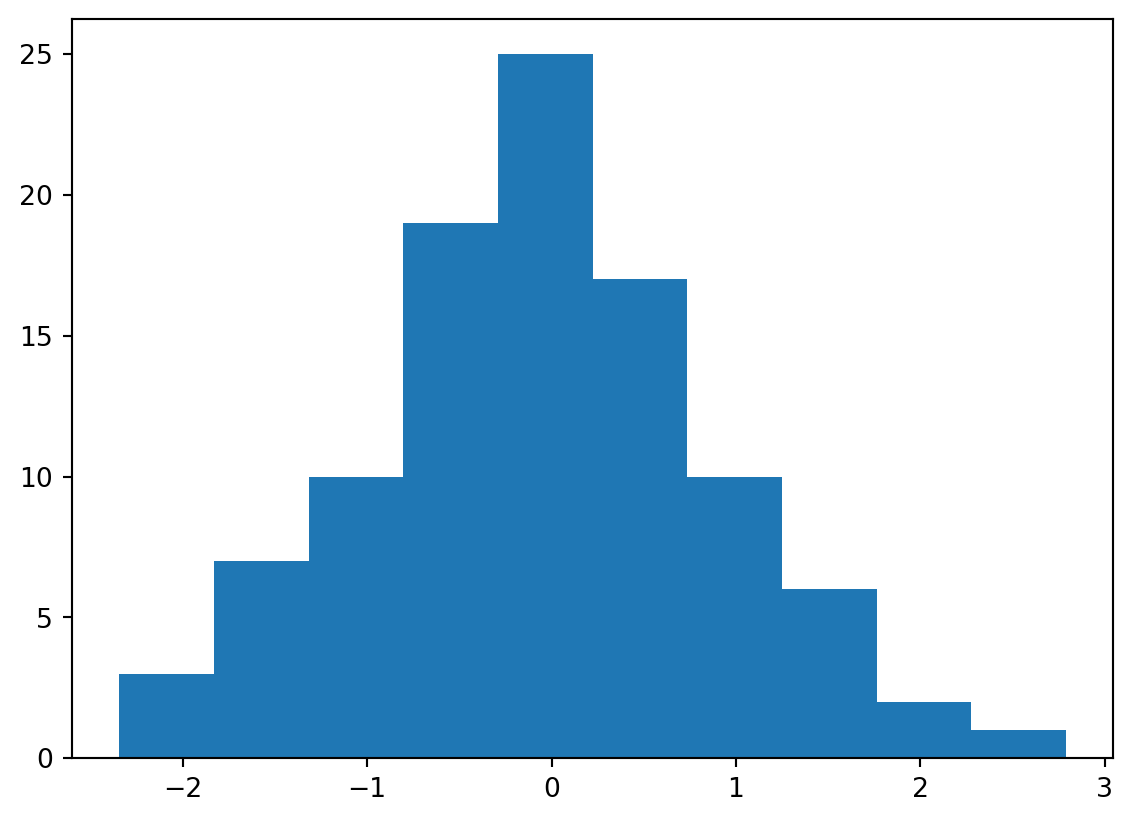
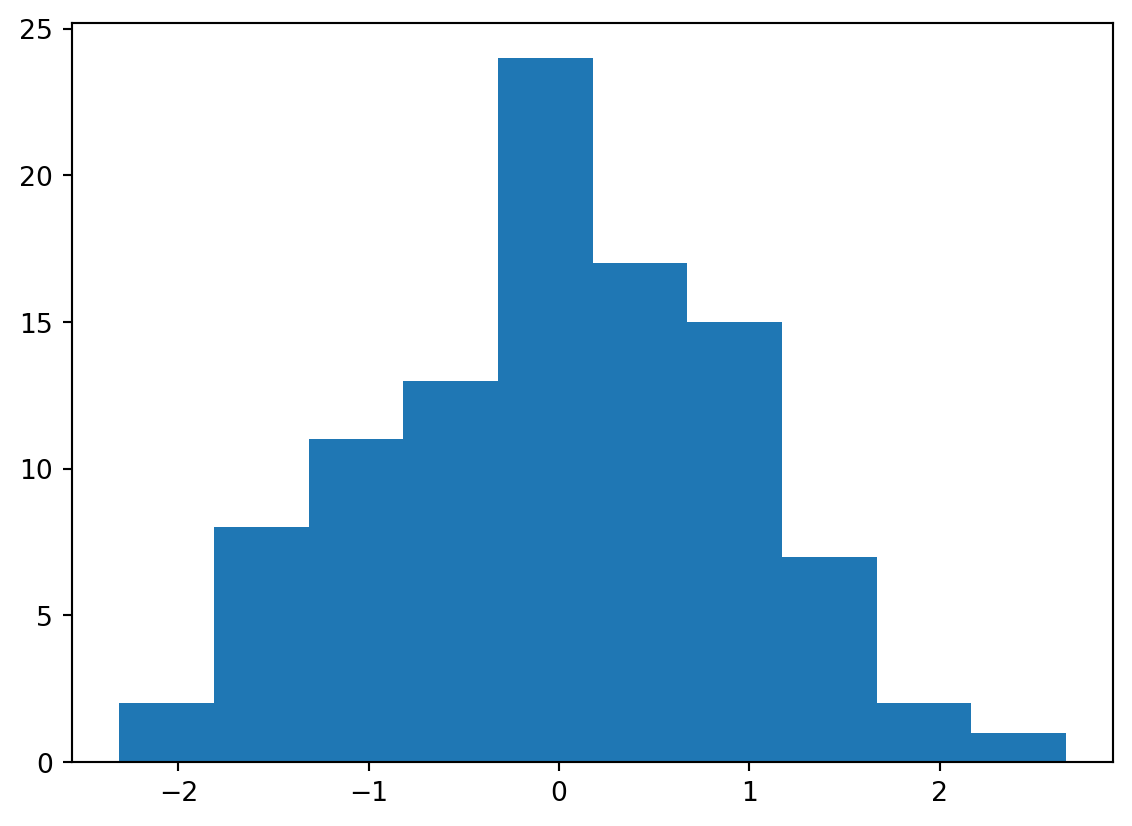
Built site for gh-pages

diff --git a/posts.html b/posts.html
@@ -332,7 +332,7 @@ https://learn.microsoft.com/en-us/clarity/setup-and-installation/clarity-setup
     </div>
 </div>
 <div class="list quarto-listing-default">
-<div class="quarto-post image-right" data-index="0" data-categories="bmV3cyUyQ2V2ZW50JTJDcHJlc2VudGF0aW9u" data-listing-date-sort="1743724800000" data-listing-file-modified-sort="1777303848465" data-listing-date-modified-sort="NaN" data-listing-reading-time-sort="1" data-listing-word-count-sort="57">
+<div class="quarto-post image-right" data-index="0" data-categories="bmV3cyUyQ2V2ZW50JTJDcHJlc2VudGF0aW9u" data-listing-date-sort="1743724800000" data-listing-file-modified-sort="1777314189354" data-listing-date-modified-sort="NaN" data-listing-reading-time-sort="1" data-listing-word-count-sort="57">
 <div class="thumbnail"><a href="./posts/2025-04-yishan-cui-defense/index.html" class="no-external">
 
 <img loading="lazy" src="./posts/2025-04-yishan-cui-defense/defense.jpg" class="thumbnail-image">
@@ -366,7 +366,7 @@ Honglang Wang
 </a>
 </div>
 </div>
-<div class="quarto-post image-right" data-index="1" data-categories="bmV3cyUyQ2V2ZW50JTJDcHJlc2VudGF0aW9u" data-listing-date-sort="1736208000000" data-listing-file-modified-sort="1777303848459" data-listing-date-modified-sort="NaN" data-listing-reading-time-sort="1" data-listing-word-count-sort="57">
+<div class="quarto-post image-right" data-index="1" data-categories="bmV3cyUyQ2V2ZW50JTJDcHJlc2VudGF0aW9u" data-listing-date-sort="1736208000000" data-listing-file-modified-sort="1777314189347" data-listing-date-modified-sort="NaN" data-listing-reading-time-sort="1" data-listing-word-count-sort="57">
 <div class="thumbnail"><a href="./posts/2025-01-llm-journal-club/index.html" class="no-external">
 
 <img loading="lazy" src="./posts/2025-01-llm-journal-club/llm.png" class="thumbnail-image">
@@ -400,7 +400,7 @@ Honglang Wang
 </a>
 </div>
 </div>
-<div class="quarto-post image-right" data-index="2" data-categories="bmV3cw==" data-listing-date-sort="1734480000000" data-listing-file-modified-sort="1777303848459" data-listing-date-modified-sort="NaN" data-listing-reading-time-sort="1" data-listing-word-count-sort="123">
+<div class="quarto-post image-right" data-index="2" data-categories="bmV3cw==" data-listing-date-sort="1734480000000" data-listing-file-modified-sort="1777314189347" data-listing-date-modified-sort="NaN" data-listing-reading-time-sort="1" data-listing-word-count-sort="123">
 <div class="thumbnail"><a href="./posts/2024-12-course-projects-samples/index.html" class="no-external">
 
 <img loading="lazy" src="./posts/2024-12-course-projects-samples/Indiana-University-Indianapolis.jpg" class="thumbnail-image">
@@ -430,7 +430,7 @@ Honglang Wang
 </a>
 </div>
 </div>
-<div class="quarto-post image-right" data-index="3" data-categories="bmV3cyUyQ2V2ZW50JTJDcHJlc2VudGF0aW9u" data-listing-date-sort="1730419200000" data-listing-file-modified-sort="1777303848455" data-listing-date-modified-sort="NaN" data-listing-reading-time-sort="1" data-listing-word-count-sort="57">
+<div class="quarto-post image-right" data-index="3" data-categories="bmV3cyUyQ2V2ZW50JTJDcHJlc2VudGF0aW9u" data-listing-date-sort="1730419200000" data-listing-file-modified-sort="1777314189342" data-listing-date-modified-sort="NaN" data-listing-reading-time-sort="1" data-listing-word-count-sort="57">
 <div class="thumbnail"><a href="./posts/2024-11-ran-mo-defense/index.html" class="no-external">
 
 <img loading="lazy" src="./posts/2024-11-ran-mo-defense/mo-defense.jpg" class="thumbnail-image">

diff --git a/statcomputing/units/unit1.html b/statcomputing/units/unit1.html
@@ -170,12 +170,12 @@ window.Quarto = {
 <meta property="og:description" content="">
 <meta property="og:image" content="https://honglang.github.io/statcomputing/units/unit1_files/figure-html/cell-2-output-1.png">
 <meta property="og:site_name" content="Dr.&nbsp;Honglang Wang">
-<meta property="og:image:height" content="822">
+<meta property="og:image:height" content="826">
 <meta property="og:image:width" content="1132">
 <meta name="twitter:title" content="Unit 1: Intro – Dr.&nbsp;Honglang Wang">
 <meta name="twitter:description" content="">
 <meta name="twitter:image" content="https://honglang.github.io/statcomputing/units/unit1_files/figure-html/cell-2-output-1.png">
-<meta name="twitter:image-height" content="822">
+<meta name="twitter:image-height" content="826">
 <meta name="twitter:image-width" content="1132">
 <meta name="twitter:card" content="summary_large_image">
 </head>
@@ -312,7 +312,7 @@ window.Quarto = {
 <p>This is an example of using qmd as the source document.</p>
 <section id="evaluated-python-code-chunk-with-a-plot" class="level2">
 <h2 class="anchored" data-anchor-id="evaluated-python-code-chunk-with-a-plot">Evaluated Python code chunk, with a plot</h2>
-<div id="db00358e" class="cell" data-execution_count="1">
+<div id="80937714" class="cell" data-execution_count="1">
 <details open="" class="code-fold">
 <summary>Code</summary>
 <div class="code-copy-outer-scaffold"><div class="sourceCode cell-code" id="cb1"><pre class="sourceCode python code-with-copy"><code class="sourceCode python"><span id="cb1-1"><a href="#cb1-1" aria-hidden="true" tabindex="-1"></a><span class="im">import</span> numpy <span class="im">as</span> np</span>
@@ -325,12 +325,12 @@ window.Quarto = {
 <div class="cell-output cell-output-display">
 <div>
 <figure class="figure">
-<p><img src="unit1_files/figure-html/cell-2-output-1.png" width="566" height="411" class="figure-img"></p>
+<p><img src="unit1_files/figure-html/cell-2-output-1.png" width="566" height="413" class="figure-img"></p>
 </figure>
 </div>
 </div>
 <div class="cell-output cell-output-display" data-execution_count="1">
-<pre><code>np.float64(-0.05213256329903495)</code></pre>
+<pre><code>np.float64(-0.009074389603433574)</code></pre>
 </div>
 </div>
 </section>
@@ -383,7 +383,7 @@ window.Quarto = {
 </div>
 <div id="tabset-1-2" class="tab-pane" role="tabpanel" aria-labelledby="tabset-1-2-tab">
 <p>This code is executed.</p>
-<div id="ac3b3b7e" class="cell" data-execution_count="2">
+<div id="dc4b1225" class="cell" data-execution_count="2">
 <details open="" class="code-fold">
 <summary>Code</summary>
 <div class="code-copy-outer-scaffold"><div class="sourceCode cell-code" id="cb4"><pre class="sourceCode python code-with-copy"><code class="sourceCode python"><span id="cb4-1"><a href="#cb4-1" aria-hidden="true" tabindex="-1"></a><span class="kw">def</span> fizz_buzz(num):</span>

diff --git a/index.html b/index.html
@@ -343,7 +343,7 @@ window.Quarto = {
 <p>Check out the latest &nbsp;<a href="./posts.html#category=paper">Papers</a>&nbsp;, &nbsp;<a href="./posts.html#category=news">News</a>&nbsp;, &nbsp;<a href="./posts.html#category=event">Events</a>&nbsp;, and &nbsp;<a href="./posts.html">More »</a></p>
 <div id="listing-recent-posts" class="quarto-listing quarto-listing-container-grid">
 <div class="list grid quarto-listing-cols-3">
-<div class="g-col-1" data-index="0" data-categories="bmV3cyUyQ2V2ZW50JTJDcHJlc2VudGF0aW9u" data-listing-date-sort="1743724800000" data-listing-file-modified-sort="1777303848465" data-listing-date-modified-sort="NaN" data-listing-reading-time-sort="1" data-listing-word-count-sort="57">
+<div class="g-col-1" data-index="0" data-categories="bmV3cyUyQ2V2ZW50JTJDcHJlc2VudGF0aW9u" data-listing-date-sort="1743724800000" data-listing-file-modified-sort="1777314189354" data-listing-date-modified-sort="NaN" data-listing-reading-time-sort="1" data-listing-word-count-sort="57">
 <a href="./posts/2025-04-yishan-cui-defense/index.html" class="quarto-grid-link">
 <div class="quarto-grid-item card h-100 card-left">
 <p class="card-img-top">
@@ -367,7 +367,7 @@ Apr 4, 2025
 </div>
 </div></a>
 </div>
-<div class="g-col-1" data-index="1" data-categories="bmV3cyUyQ2V2ZW50JTJDcHJlc2VudGF0aW9u" data-listing-date-sort="1736208000000" data-listing-file-modified-sort="1777303848459" data-listing-date-modified-sort="NaN" data-listing-reading-time-sort="1" data-listing-word-count-sort="57">
+<div class="g-col-1" data-index="1" data-categories="bmV3cyUyQ2V2ZW50JTJDcHJlc2VudGF0aW9u" data-listing-date-sort="1736208000000" data-listing-file-modified-sort="1777314189347" data-listing-date-modified-sort="NaN" data-listing-reading-time-sort="1" data-listing-word-count-sort="57">
 <a href="./posts/2025-01-llm-journal-club/index.html" class="quarto-grid-link">
 <div class="quarto-grid-item card h-100 card-left">
 <p class="card-img-top">
@@ -391,7 +391,7 @@ Jan 7, 2025
 </div>
 </div></a>
 </div>
-<div class="g-col-1" data-index="2" data-categories="bmV3cw==" data-listing-date-sort="1734480000000" data-listing-file-modified-sort="1777303848459" data-listing-date-modified-sort="NaN" data-listing-reading-time-sort="1" data-listing-word-count-sort="123">
+<div class="g-col-1" data-index="2" data-categories="bmV3cw==" data-listing-date-sort="1734480000000" data-listing-file-modified-sort="1777314189347" data-listing-date-modified-sort="NaN" data-listing-reading-time-sort="1" data-listing-word-count-sort="123">
 <a href="./posts/2024-12-course-projects-samples/index.html" class="quarto-grid-link">
 <div class="quarto-grid-item card h-100 card-left">
 <p class="card-img-top">

diff --git a/statcomputing/units/unit3.html b/statcomputing/units/unit3.html
@@ -171,12 +171,12 @@ window.Quarto = {
 <meta property="og:image" content="https://honglang.github.io/statcomputing/units/unit3_files/figure-html/cell-2-output-1.png">
 <meta property="og:site_name" content="Dr.&nbsp;Honglang Wang">
 <meta property="og:image:height" content="822">
-<meta property="og:image:width" content="1158">
+<meta property="og:image:width" content="1132">
 <meta name="twitter:title" content="Unit 3: More – Dr.&nbsp;Honglang Wang">
 <meta name="twitter:description" content="">
 <meta name="twitter:image" content="https://honglang.github.io/statcomputing/units/unit3_files/figure-html/cell-2-output-1.png">
 <meta name="twitter:image-height" content="822">
-<meta name="twitter:image-width" content="1158">
+<meta name="twitter:image-width" content="1132">
 <meta name="twitter:card" content="summary_large_image">
 </head>
 
@@ -313,7 +313,7 @@ $$
 <p>This is an example of using qmd as the source document with pdf as one target. I’ve taken out the qmd stuff that doesn’t seem to render to pdf.</p>
 <section id="evaluated-python-code-chunk-with-a-plot" class="level2">
 <h2 class="anchored" data-anchor-id="evaluated-python-code-chunk-with-a-plot">Evaluated Python code chunk, with a plot</h2>
-<div id="1df820c7" class="cell" data-execution_count="1">
+<div id="25052bcf" class="cell" data-execution_count="1">
 <details open="" class="code-fold">
 <summary>Code</summary>
 <div class="code-copy-outer-scaffold"><div class="sourceCode cell-code" id="cb1"><pre class="sourceCode python code-with-copy"><code class="sourceCode python"><span id="cb1-1"><a href="#cb1-1" aria-hidden="true" tabindex="-1"></a><span class="im">import</span> numpy <span class="im">as</span> np</span>
@@ -326,12 +326,12 @@ $$
 <div class="cell-output cell-output-display">
 <div>
 <figure class="figure">
-<p><img src="unit3_files/figure-html/cell-2-output-1.png" width="579" height="411" class="figure-img"></p>
+<p><img src="unit3_files/figure-html/cell-2-output-1.png" width="566" height="411" class="figure-img"></p>
 </figure>
 </div>
 </div>
 <div class="cell-output cell-output-display" data-execution_count="1">
-<pre><code>np.float64(0.0935041427780429)</code></pre>
+<pre><code>np.float64(0.12593249798284645)</code></pre>
 </div>
 </div>
 </section>

diff --git a/notes.html b/notes.html
@@ -329,7 +329,7 @@ window.Quarto = {
 </thead>
 <tbody class="list">
 
-<tr data-index="0" data-categories="cG9saWN5" data-listing-date-sort="1730419200000" data-listing-file-modified-sort="1777303848453" data-listing-date-modified-sort="NaN" data-listing-reading-time-sort="8" data-listing-word-count-sort="1493" data-listing-title-sort="New York State Climate Policy Goals Clarified" data-listing-filename-sort="new-york-state-climate-policy.qmd">
+<tr data-index="0" data-categories="cG9saWN5" data-listing-date-sort="1730419200000" data-listing-file-modified-sort="1777314189341" data-listing-date-modified-sort="NaN" data-listing-reading-time-sort="8" data-listing-word-count-sort="1493" data-listing-title-sort="New York State Climate Policy Goals Clarified" data-listing-filename-sort="new-york-state-climate-policy.qmd">
 <td>
 <a href="./notes/new-york-state-climate-policy.html" class="title listing-title">New York State Climate Policy Goals Clarified</a>
 </td>
@@ -339,7 +339,7 @@ window.Quarto = {
 
 </tr>
 
-<tr data-index="1" data-categories="dG9vbA==" data-listing-date-sort="1728950400000" data-listing-file-modified-sort="1777303848465" data-listing-date-modified-sort="NaN" data-listing-reading-time-sort="6" data-listing-word-count-sort="1145" data-listing-title-sort="Quarto Academic Site Examples and Tips" data-listing-filename-sort="quarto-academic-site-examples.qmd">
+<tr data-index="1" data-categories="dG9vbA==" data-listing-date-sort="1728950400000" data-listing-file-modified-sort="1777314189354" data-listing-date-modified-sort="NaN" data-listing-reading-time-sort="6" data-listing-word-count-sort="1145" data-listing-title-sort="Quarto Academic Site Examples and Tips" data-listing-filename-sort="quarto-academic-site-examples.qmd">
 <td>
 <a href="./quarto-academic-site-examples.html" class="title listing-title">Quarto Academic Site Examples and Tips</a>
 </td>

diff --git a/contact.html b/contact.html
@@ -663,7 +663,7 @@ document.write('<a h'+'ref'+'="ma'+'ilto'+':'+e+'" clas'+'s="em' + 'ail email">'
     script.src = "https://giscus.app/client.js";
     script.async = true;
     script.dataset.repo = "honglang/honglang.github.io";
-    script.dataset.repoId = "R_kgDONTc52g";
+    script.dataset.repoId = "";
     script.dataset.category = "General";
     script.dataset.categoryId = "";
     script.dataset.mapping = "title";
